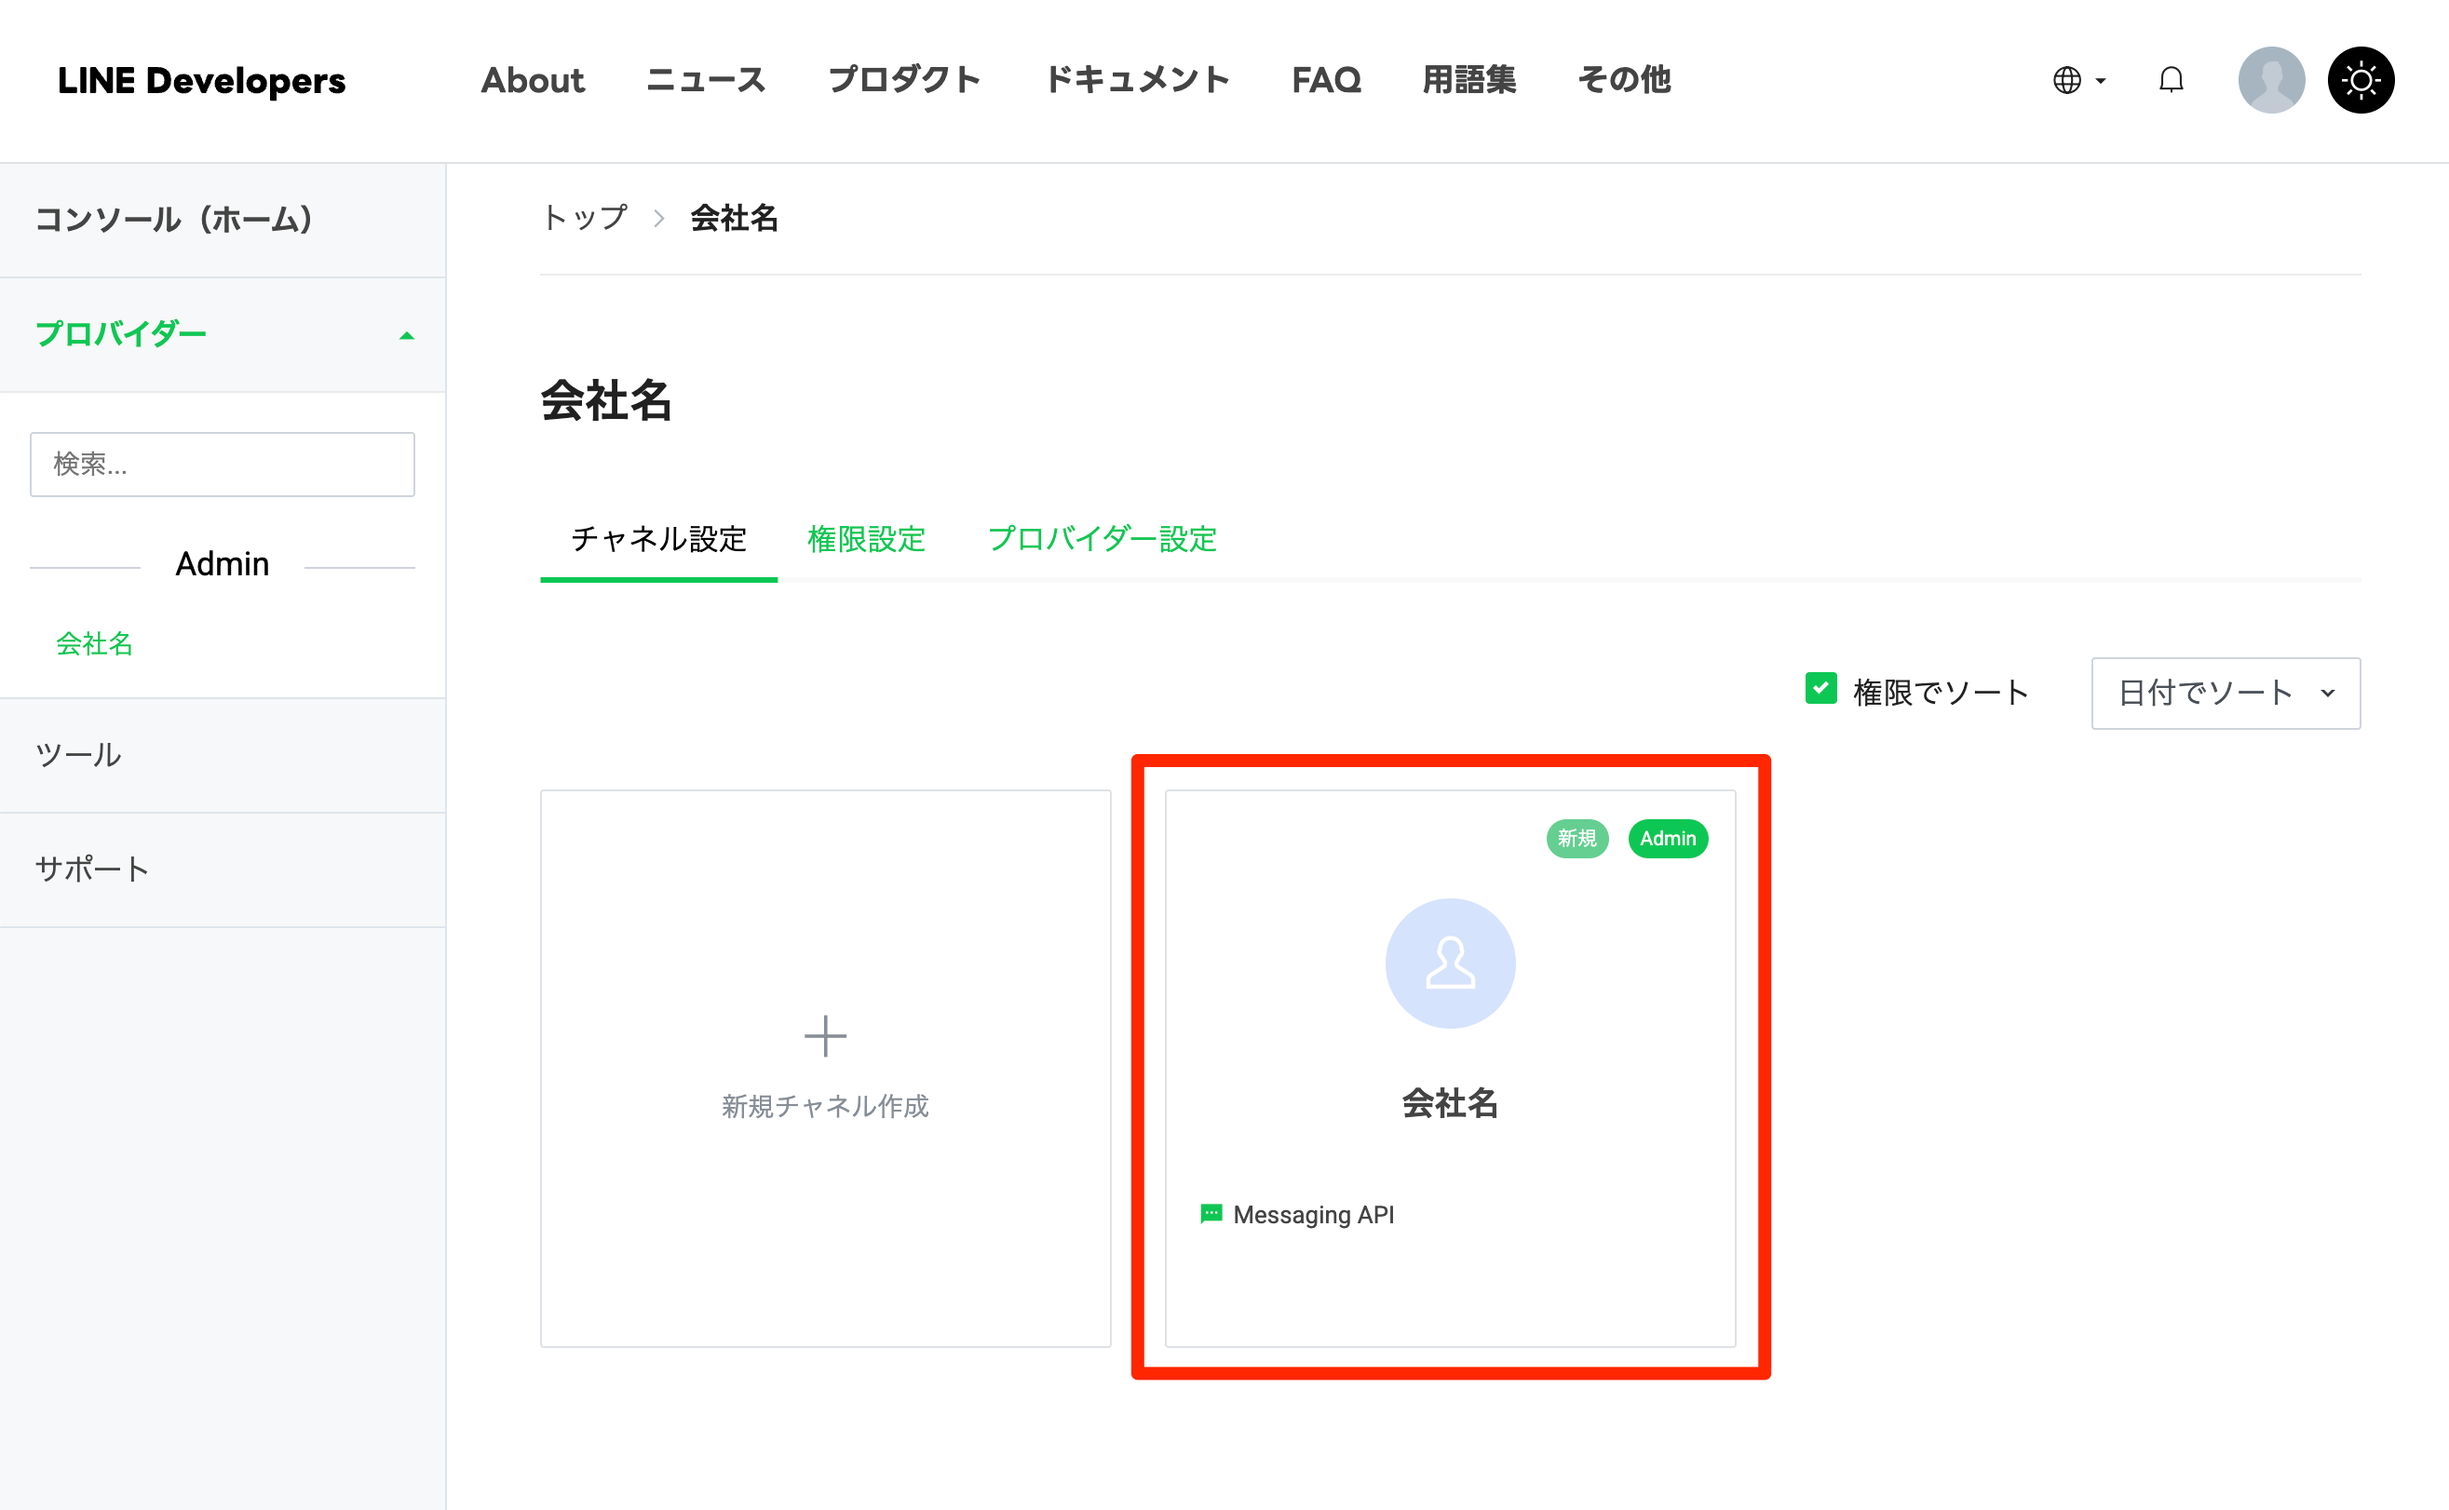
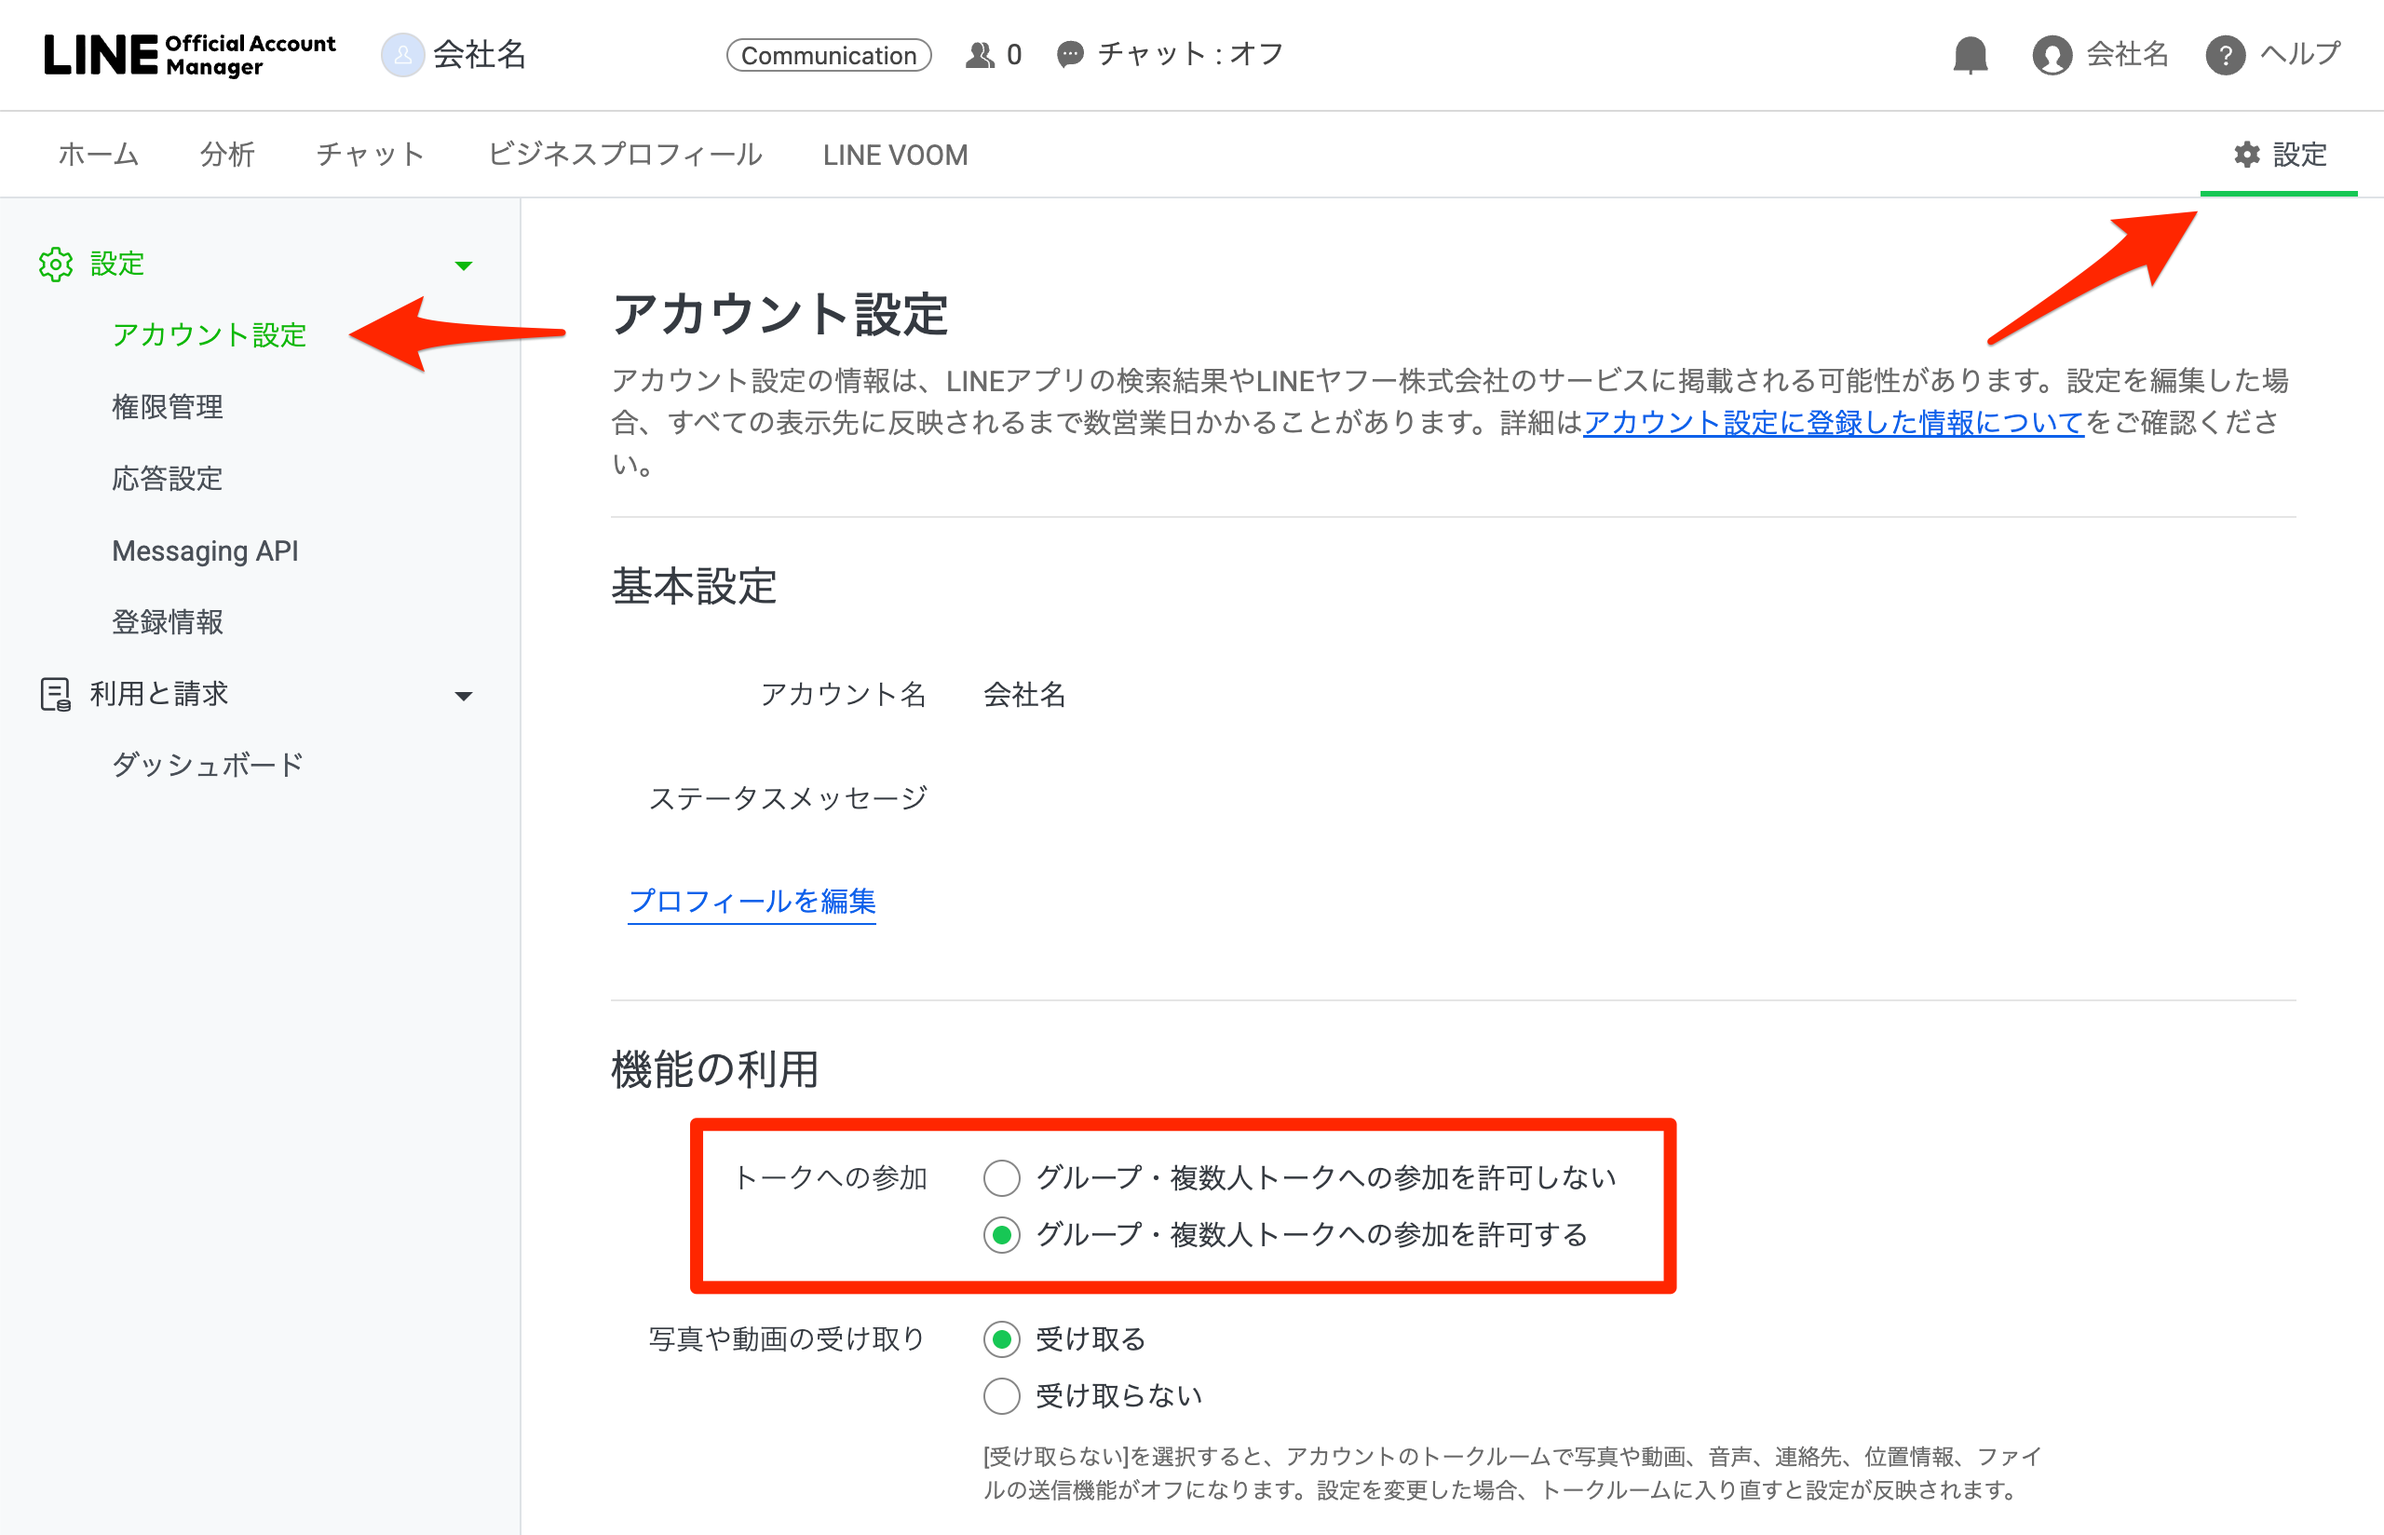
wip

diff --git a/app/docs/line/page.tsx b/app/docs/line/page.tsx
@@ -54,7 +54,7 @@ export default function LinePage() {
 
             <Image
               src="/line-docs-screenshot-1.png"
-              alt="Line Docsのスクリーンショット1"
+              alt="LINE設定画面のスクリーンショット"
               width={2592}
               height={1190}
               priority
@@ -63,11 +63,11 @@ export default function LinePage() {
             />
 
             <li>
-              Developerアカウントをまだ作成していない場合は、
+              LINE Developersアカウントをまだ作成していない場合は、
               <strong style={{ color: fontColor1 }}>名前</strong>
               と
               <strong style={{ color: fontColor1 }}>メールアドレス</strong>
-              を入力してDeveloperアカウントを作成します。すでに作成済みの場合は、この手順は表示されません。
+              を入力してLINE Developersアカウントを作成します。すでに作成済みの場合は、この手順は表示されません。
             </li>
 
             <li>
@@ -87,7 +87,7 @@ export default function LinePage() {
             </li>
 
             <li>
-              アカウント作成を完了すると、
+              Messaging APIチャネルの作成が完了すると、
               <strong style={{ color: fontColor1 }}>
                 Channel secret
               </strong>
@@ -96,7 +96,7 @@ export default function LinePage() {
 
             <Image
               src="/line-docs-screenshot-2.png"
-              alt="Line Docsのスクリーンショット2"
+              alt="LINE設定画面のスクリーンショット"
               width={2590}
               height={1514}
               priority
@@ -105,7 +105,7 @@ export default function LinePage() {
             />
 
             <li>
-              Kenchiku AIに管理者、または管理者権限を持つユーザーでログインし、
+              Kenchiku AIに管理者または管理者権限を持つユーザーでログインし、
               <strong style={{ color: fontColor1 }}>
                 「LINE連携」
               </strong>
@@ -149,85 +149,33 @@ export default function LinePage() {
             </li>
 
             <li>
-              <a
-                href="https://developers.line.biz/console/"
-                target="_blank"
-                rel="noopener noreferrer"
-                style={{ color: buttonColor, textDecoration: "underline" }}
-              >
-                LINE Developersコンソール
-              </a>
-              を開き、作成したプロバイダーをクリックします。
+              LINE Official Account Managerで
+              <strong style={{ color: fontColor1 }}>
+                「設定 → 応答設定」
+              </strong>
+              を開きます。
+              <strong style={{ color: fontColor1 }}>
+                「Webhook」
+              </strong>
+              の設定が
+              <strong style={{ color: fontColor1 }}>
+                有効
+              </strong>
+              になっていることを確認してください。
             </li>
 
             <Image
               src="/line-docs-screenshot-3.png"
-              alt="Line Docsのスクリーンショット3"
-              width={2630}
-              height={1332}
+              alt="LINE設定画面のスクリーンショット"
+              width={2562}
+              height={1388}
               priority
               className="my-10 border"
               style={{ borderColor: bgColor5 }}
             />
 
             <li>
-              <strong style={{ color: fontColor1 }}>
-                「チャネル設定」
-              </strong>
-              タブが選択されていることを確認し、Messaging APIチャネルをクリックします。
-            </li>
-
-            <Image
-              src="/line-docs-screenshot-4.png"
-              alt="Line Docsのスクリーンショット4"
-              width={2630}
-              height={1622}
-              priority
-              className="my-10 border"
-              style={{ borderColor: bgColor5 }}
-            />
-
-            <li>
-              <strong style={{ color: fontColor1 }}>
-                「Messaging API設定」
-              </strong>
-              タブを開き、
-              <strong style={{ color: fontColor1 }}>
-                Webhook
-              </strong>
-              の設定項目までスクロールします。
-              <strong style={{ color: fontColor1 }}>
-                「Webhookの利用」
-              </strong>
-              が有効になっていることを確認してください。
-            </li>
-
-            <p>
-              ※「Webhookの利用」が表示されない場合は、Webhook URLが入力されていることを確認し、保存してください。
-            </p>
-
-            <Image
-              src="/line-docs-screenshot-5.png"
-              alt="Line Docsのスクリーンショット5"
-              width={2630}
-              height={1480}
-              priority
-              className="my-10 border"
-              style={{ borderColor: bgColor5 }}
-            />
-
-            <Image
-              src="/line-docs-screenshot-6.png"
-              alt="Line Docsのスクリーンショット6"
-              width={2630}
-              height={1294}
-              priority
-              className="10 border"
-              style={{ borderColor: bgColor5 }}
-            />
-
-            <li>
-              最後にLINE Official Account Managerに戻り、
+              最後に、
               <strong style={{ color: fontColor1 }}>
                 「設定 → アカウント設定」
               </strong>
@@ -239,12 +187,12 @@ export default function LinePage() {
               <strong style={{ color: fontColor1 }}>
                 「グループ・複数人トークへの参加を許可する」
               </strong>
-              が選択されていることを確認します。
+              が有効になっていることを確認してください。
             </li>
 
             <Image
-              src="/line-docs-screenshot-7.png"
-              alt="Line Docsのスクリーンショット7"
+              src="/line-docs-screenshot-4.png"
+              alt="LINE設定画面のスクリーンショット"
               width={2560}
               height={1648}
               priority
